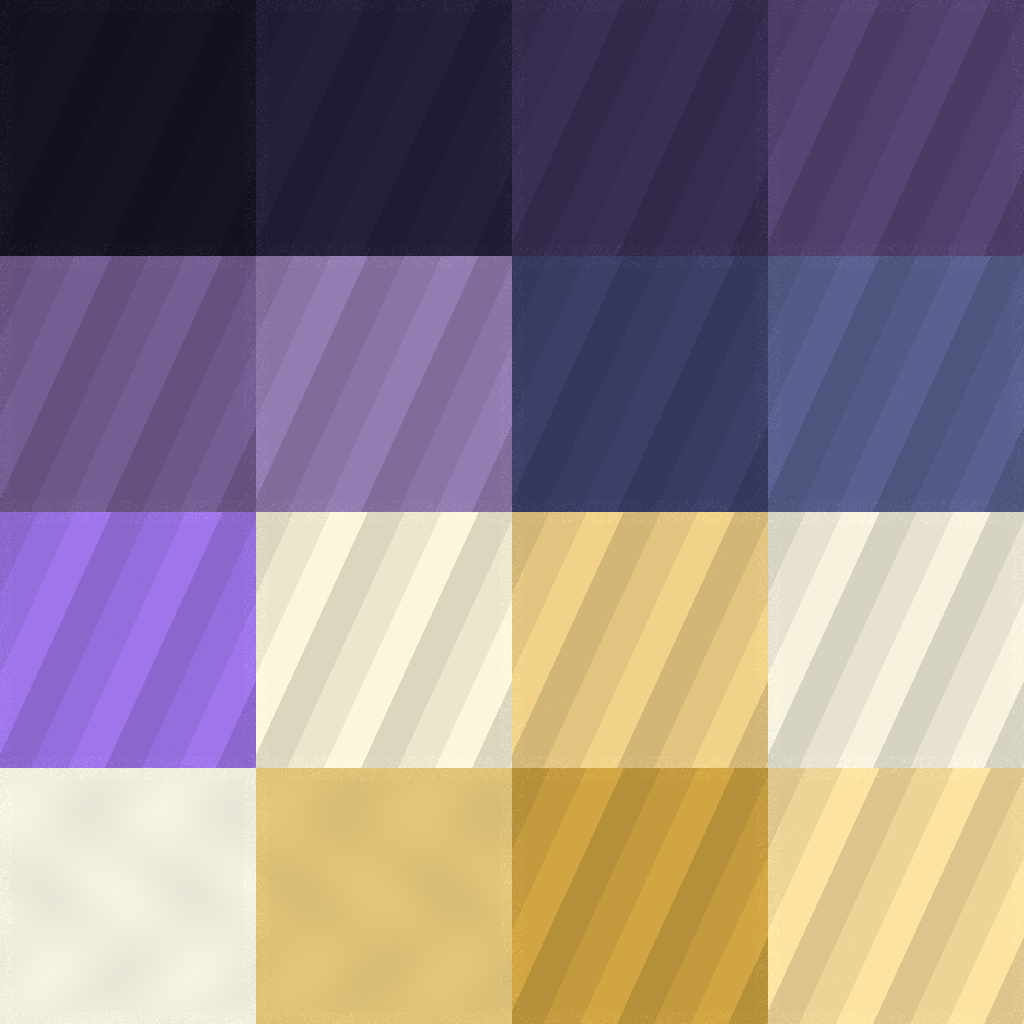
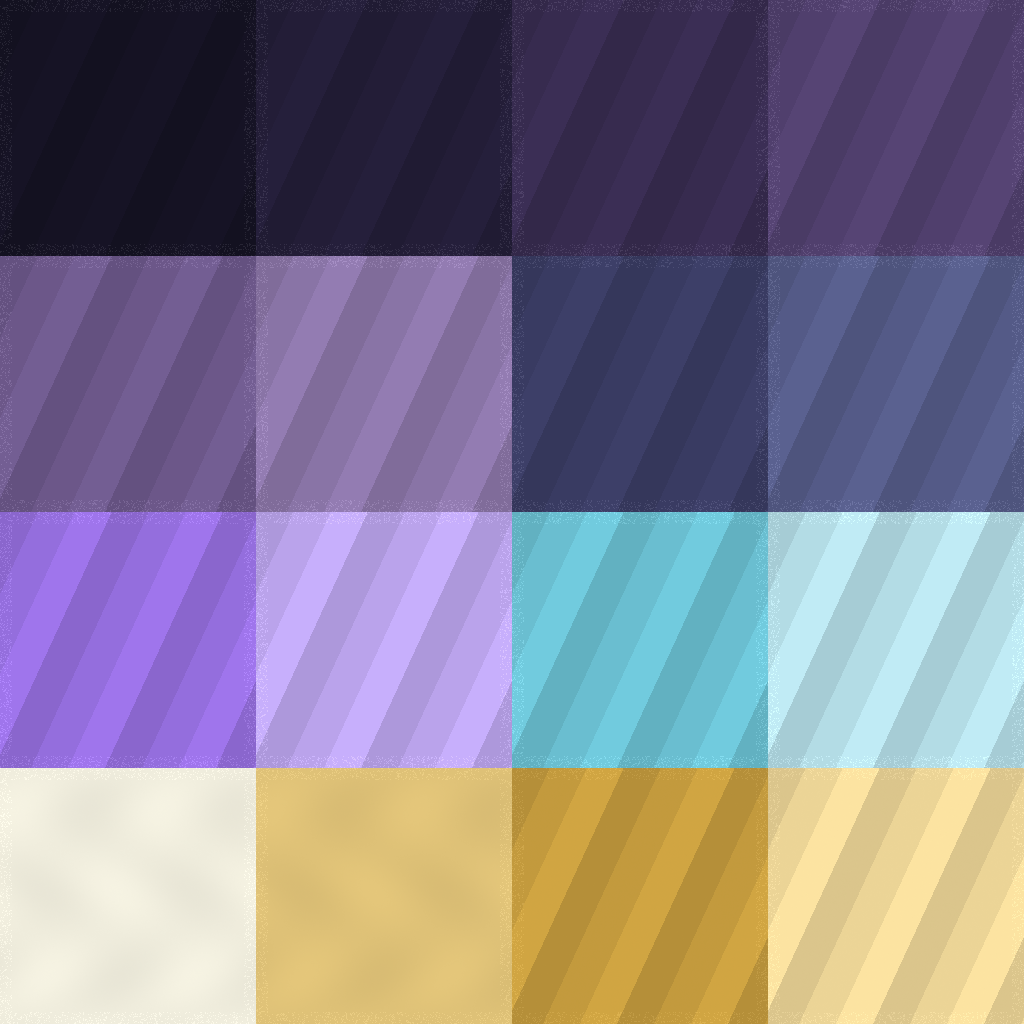
Harden Reconnection release candidate

Changed region(s): [[0.25, 0.5, 1.0, 0.75]]

diff --git a/dragon-forge-nextgen/tools/build_synthesis_guardian.py b/dragon-forge-nextgen/tools/build_synthesis_guardian.py
@@ -18,9 +18,8 @@ import build_light_guardian as light
 
 ROOT = Path(__file__).resolve().parents[1]
 OUT = ROOT / 'campaign' / 'synthesis'
-PALETTE = void.PALETTE[:8] + [void.PALETTE[8], (255, 249, 222), (245, 212, 139),
-                            (250, 245, 225), (255, 252, 235), (237, 206, 127),
-                            (211, 167, 67), (255, 230, 163)]
+PALETTE = void.PALETTE[:12] + [(255, 252, 235), (237, 206, 127),
+                              (211, 167, 67), (255, 230, 163)]
 DURATIONS = {'idle': 1.8, 'walk': .8, 'claw': .32, 'breath': .56,
              'wall': .60, 'burst': .76, 'guard': 1.2, 'hurt': .24, 'defeat': .9}
 WINDUPS = {'claw': .12, 'breath': .26, 'wall': .28, 'burst': .36}
@@ -28,10 +27,15 @@ WINDUPS = {'claw': .12, 'breath': .26, 'wall': .28, 'burst': .36}
 
 def paint():
     rng = np.random.default_rng(79237)
-    maps = {name: Image.new('RGB', (1024, 1024)) for name in ['base', 'orm', 'normal', 'emission']}
+    # Synthesis is the existing Void frame filled with Light panes. Seed every
+    # atlas from the committed Void export and author only the four reserved
+    # pane slots so frame texels, not merely frame geometry, stay identical.
+    maps = {name: Image.open(ROOT/'campaign'/'void'/f'atlas_{name}.png').convert('RGB').copy()
+            for name in ['base', 'orm', 'normal', 'emission']}
     y, x = np.mgrid[:256, :256]
     edge = np.minimum.reduce([x, y, 255 - x, 255 - y])
-    for slot, color in enumerate(PALETTE):
+    for slot in range(12, 16):
+        color = PALETTE[slot]
         glass = slot in [12, 13]
         metal = slot in [14, 15]
         grain = rng.normal(0, 1, (256, 256))
@@ -151,6 +155,7 @@ if __name__ == '__main__':
                            'notes': 'Must read as void + light combined, not a tenth animal.',
                            'muzzle_joint': 'Emitter', 'grounded': False, 'foot_planting': False,
                            'pane_count': 4, 'rigid_panes': True, 'pane_palette': 'gold-white',
+                           'frame_texture_slots': list(range(12)),
                            'pane_color_slots': [12, 13, 14, 15], 'center': void.CENTER.tolist()},
                 'frame_reference': {'file': 'campaign/void/void_guardian.glb',
                                     'sha256': hashlib.sha256(reference.read_bytes()).hexdigest(),

diff --git a/dragon-forge-nextgen/tools/validate_synthesis.py b/dragon-forge-nextgen/tools/validate_synthesis.py
@@ -106,7 +106,7 @@ check('emissiveTexture' in material and 'normalTexture' in material and 'occlusi
 design = manifest['design']
 check(design['plan'] == 'void frame filled with light panes' and design['silhouette'] == 'diamond-frame-pane-fill', 'Art Bible Void+Light design')
 check(design['pane_palette'] == 'gold-white' and design['rigid_panes'] and design['pane_count'] == 4, 'Four rigid gold/white fill panes')
-check(design['pane_color_slots'] == [12, 13, 14, 15] and design['center'] == [0., 1.28, 0.], 'Recorded pane palette and inherited center')
+check(design['frame_texture_slots'] == list(range(12)) and design['pane_color_slots'] == [12, 13, 14, 15] and design['center'] == [0., 1.28, 0.], 'Recorded frame and pane palette ownership')
 check(design['muzzle_joint'] == 'Emitter' and not design['grounded'] and not design['foot_planting'], 'Authored emitter and honest hovering contract')
 check(manifest['pane_source'] == 'tools/build_light_guardian.py', 'Actual Light pane recipe retained')
 joint_indices = access(doc, binary, primitive['attributes']['JOINTS_0'])
@@ -213,6 +213,10 @@ def png_rgb(path):
                 row[x] = (row[x]+predictor)&255
             elif kind != 0: raise AssertionError('Unsupported PNG filter')
         yield row; previous = row
+for name in ['atlas_base.png', 'atlas_orm.png', 'atlas_normal.png', 'atlas_emission.png']:
+    synthesis_rows = list(png_rgb(FOLDER/name))
+    void_rows = list(png_rgb(ROOT/'campaign'/'void'/name))
+    check(synthesis_rows[:768] == void_rows[:768], 'Void frame texture slots retained byte-for-byte: ' + name)
 for name in ['atlas_base.png', 'atlas_emission.png']:
     # The bottom atlas row is reserved for the four Light pane/leading slots;
     # the retained Void frame deliberately keeps its original violet family.

diff --git a/dragon-forge-nextgen/campaign/SYNTHESIS.md b/dragon-forge-nextgen/campaign/SYNTHESIS.md
@@ -6,7 +6,7 @@ Prism is the ninth owned guardian. Expeditions remain one active guardian and on
 
 The canonical browser recipe is **Light + Void = Synthesis**. Stabilize the Singularity to awaken Lumen, then recover its preserved Void imprint and awaken Null at the Forge. With both parents owned, return to **Resonance Fusion**, create the Synthesis resonance, and awaken Prism. Forging and awakening are separate, persistent, one-time milestones. They spend no salvage, consume neither parent, retain all progression, and preserve the selected expedition pair. Prism can then be selected at the Guardian Nursery.
 
-The imported rig keeps Void's diamond frame and fills it with hard gold-and-white Light panes. This combined silhouette follows the browser art identity. It hovers and uses the existing grounded player collider; it cannot cross walls or missing decks. No planted-foot simulation is claimed.
+The imported rig keeps Void's diamond frame and its original texture slots byte-for-byte, then fills the reserved bottom atlas row with hard gold-and-white Light panes. This combined silhouette follows the browser art identity. It hovers and uses the existing grounded player collider; it cannot cross walls or missing decks. No planted-foot simulation is claimed.
 
 ## Native four-slot kit
 
@@ -16,10 +16,10 @@ These are deterministic native balance values. They are not a claim of turn-base
 |---|---|---:|---:|---:|---|---|
 | 1 | Convergence Shard | 26 | 0 | 0.55 s | 0.12 + 0.20 s | 3 m |
 | 2 | Void Rift | 32 | 22 | 3 s | 0.26 + 0.30 s | 7.8 m |
-| 3 | Radiant Beam | 36 | 26 | 4 s | 0.28 + 0.32 s | 8 m direct line |
+| 3 | Radiant Beam | 36 | 26 | 4 s | 0.28 + 0.32 s | 8 m direct line, 0.7 m half-width |
 | 4 | Recompile | 46 | 38 | 9 s | 0.36 + 0.40 s | 5 m radial |
 
-Void Rift pushes an exposed ordinary enemy up to 1.25 m through collision-aware movement. Bosses and enemies with a locked attack warning remain anchored. Radiant Beam is one direct aimed attack, not a persistent field. All techniques retain normal line-of-sight, range and shield checks.
+Void Rift pushes an exposed ordinary enemy up to 1.25 m through collision-aware movement. Bosses and enemies with a locked attack warning remain anchored. Radiant Beam is one direct aimed attack in a fixed 1.4 m-wide corridor, not a widening cone or persistent field. All techniques retain normal line-of-sight, range and shield checks.
 
 ## Recompile and Advantage adaptation
 
